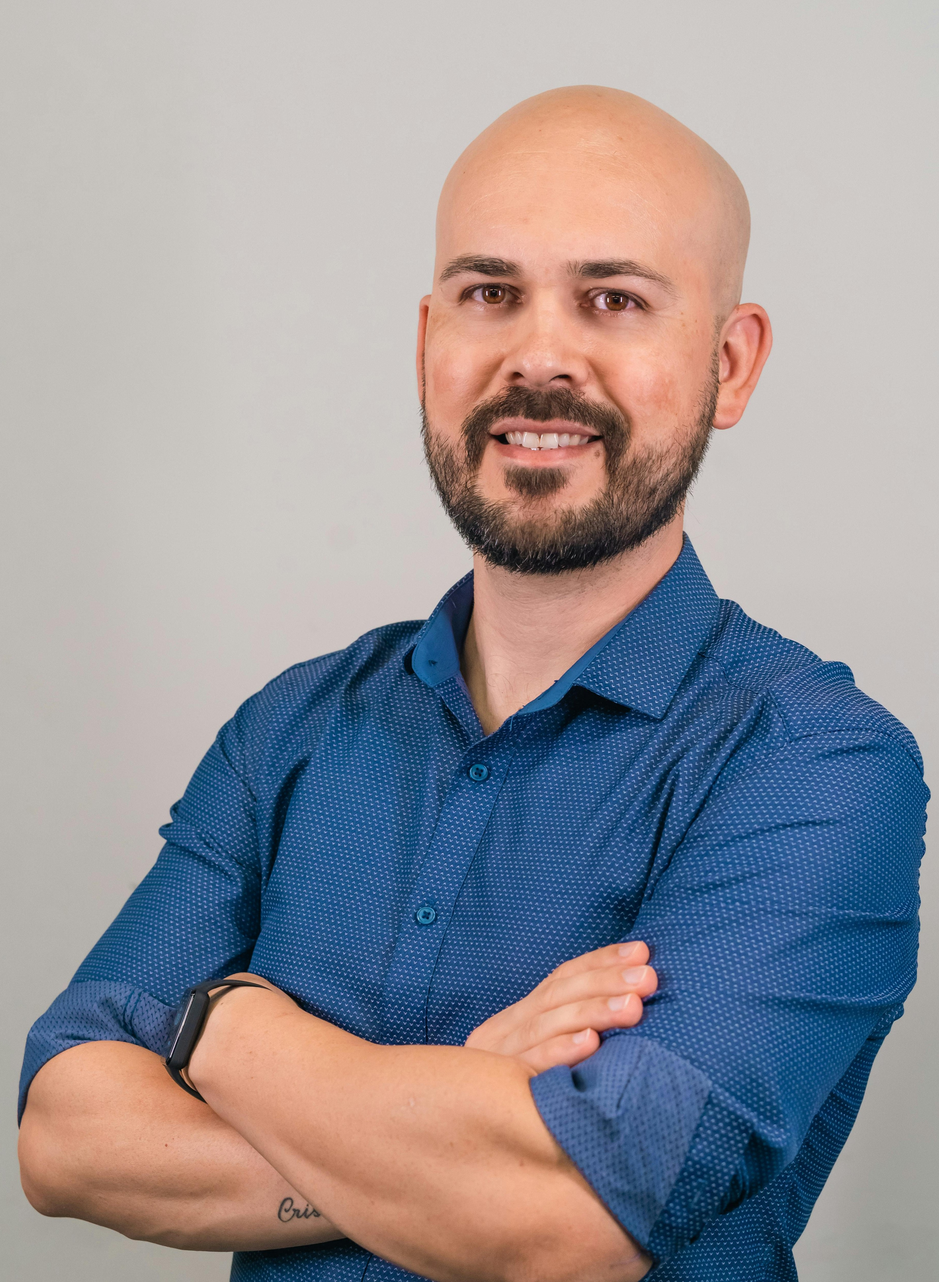
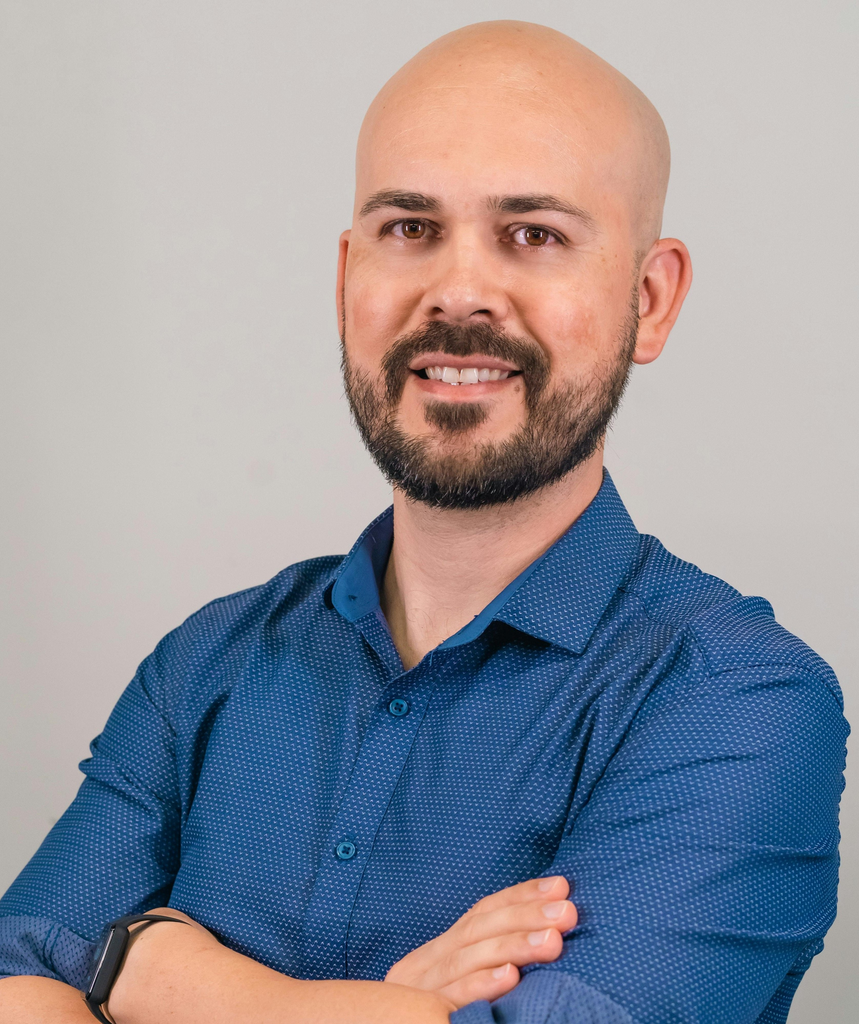
Shtimi i css per pjesen e reviews dhe ndryshime te vogla ne imazhe

diff --git a/cssfiles/homepage.css b/cssfiles/homepage.css
@@ -248,6 +248,118 @@ header{
     color: #888;
 }
 
+.pjesaa {
+    display: flex;
+    justify-content: center;
+    align-items: center;
+    min-height: 100vh;;
+}
+.konsumatoret h1{
+  text-align: center;
+  margin-bottom: -130px;
+  text-transform: uppercase;
+} 
+.reviews {
+    position: relative;
+    height: 500px;
+    width: 1075px;
+    display: flex;
+    align-items: center;
+}
+.swiper3 {
+    width: 950px;
+} 
+.container3 {
+    border-radius: 20px;
+}
+.card3 .image3 {
+    width: 140px;
+    height: 140px;
+    border-radius: 50%;
+}
+.card3 .image3 img {
+    width: 100%;
+    height: 100%;
+    object-fit: cover;
+    border-radius: 50%;
+    border: 3px solid #000;
+} 
+.card3 {
+    position: relative;
+    background: #000;
+    border: 3px solid #daa520;
+    border-radius: 20px;
+} 
+.card3::before {
+    content: '';
+    position: absolute;
+    width: 100%;
+    height: 100%;
+    background: #daa520;
+    clip-path: circle(55% at 0 0);
+    border-top-left-radius: 10px;
+} 
+.card3 .card-content3 {
+    position: relative;
+    display: flex;
+    align-items: center;
+    flex-direction: column;
+    padding: 30px;
+} 
+.card3 .social-media {
+    position: absolute;
+    top: 10px;
+    right: 20px;
+    display: flex;
+    flex-direction: column;
+    align-items: center;
+}
+.card3 .social-media i {
+    color: #fff;
+    margin-top: 10px;
+    cursor: pointer;
+    transition: .3s;
+} 
+.card3 .social-media i:hover {
+    color: #daa520;
+} 
+.card3 .pershkrimi{
+    display: flex;
+    align-items: center;
+    flex-direction: column;
+    margin-top: 10px;
+    color: #fff;
+} 
+.pershkrimi .emri {
+    font-size: 20px;
+    font-weight: 600;
+} 
+.pershkrimi .review {
+    font-size: 10px;
+    font-weight: 300;
+    text-align: center;
+}  
+.card3 .rating {
+    display: flex;
+    align-items: center;
+    margin-top: 18px;
+} 
+.card3 .rating i {
+    font-size: 18px;
+    color: #daa520;
+    margin: 0 2px;
+} 
+.swiper3-pagination-bullet {
+    height: 7px;
+    width: 26px;
+    background: #daa520;
+    border-radius: 25px;
+} 
+.swiper3-button-next,
+.swiper3-button-prev {
+    color: #daa520;
+}
+
 
   
 
